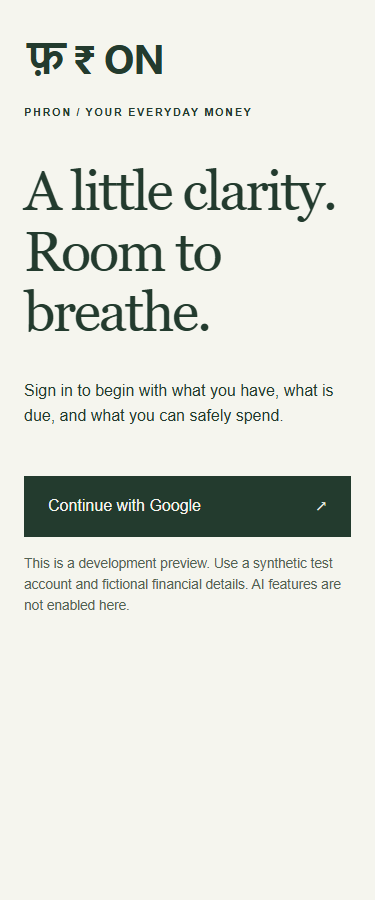
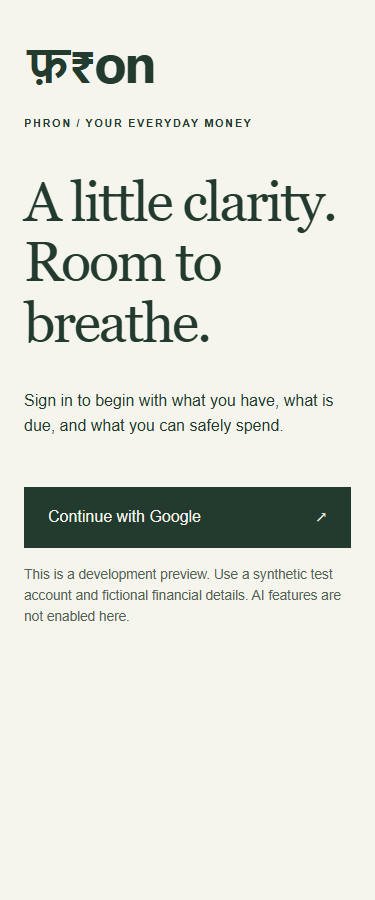
fix: tighten lowercase wordmark and refresh sign-in smoke assertions

Changed region(s): [[0.0587, 0.1867, 0.9093, 0.4978], [0.0587, 0.5289, 0.9387, 0.7156], [0.0587, 0.0311, 0.6747, 0.1556]]

diff --git a/tests/e2e/foundation.spec.ts b/tests/e2e/foundation.spec.ts
@@ -1,13 +1,15 @@
 import { expect, test } from "@playwright/test";
 
-test("public foundation loads without client errors or financial capture", async ({ page }) => {
+test("public sign-in entry loads without client errors or anonymous financial capture", async ({ page }) => {
   const errors: string[] = [];
   page.on("pageerror", (error) => errors.push(error.message));
   page.on("console", (message) => { if (message.type() === "error") errors.push(message.text()); });
   await page.goto("/");
   await expect(page).toHaveTitle("PHRON — Money, in perspective");
-  await expect(page.getByRole("heading", { level: 1 })).toHaveText("More clarity.Less money noise.");
-  await expect(page.getByText("Coming soon", { exact: true })).toBeVisible();
+  await expect(page.getByRole("heading", { level: 1 })).toHaveText("A little clarity.Room to breathe.");
+  await expect(page.getByRole("img", { name: "PHRON", exact: true })).toBeVisible();
+  await expect(page.getByRole("button", { name: "Continue with Google" })).toBeVisible();
+  await expect(page.locator('form[action="/api/auth/google"]')).toHaveAttribute("method", "post");
   await expect(page.getByRole("textbox")).toHaveCount(0);
   expect(errors).toEqual([]);
 });

diff --git a/src/components/brand/PhronLogo.tsx b/src/components/brand/PhronLogo.tsx
@@ -1,11 +1,11 @@
 /** Visual lockup only: the product's accessible and textual brand remains PHRON. */
 export function PhronLogo() {
   return <span role="img" aria-label="PHRON" className="phron-logo">
-    <svg viewBox="0 -8 152 64" width="152" height="64" aria-hidden="true" focusable="false" fill="currentColor">
+    <svg viewBox="0 -12 124 68" width="124" height="68" aria-hidden="true" focusable="false" fill="currentColor">
       <g fontFamily="'Nirmala UI', 'Noto Sans Devanagari', sans-serif" fontWeight="700">
         <text x="3" y="42" fontSize="42">फ़</text>
-        <text x="49" y="42" fontSize="40">₹</text>
-        <text x="80" y="42" fontSize="40" letterSpacing="-1">ON</text>
+        <text x="42" y="42" fontSize="40">₹</text>
+        <text x="64" y="42" fontSize="48" letterSpacing="-2">on</text>
       </g>
     </svg>
   </span>;

diff --git a/src/app/globals.css b/src/app/globals.css
@@ -14,7 +14,7 @@ footer { color: var(--quiet); font-size: .8rem; border-top: 1px solid #c5c8be; p
 
 /* Static cross-script wordmark; no font download, animation or product-copy replacement. */
 .phron-logo{display:inline-flex;vertical-align:middle;line-height:0;letter-spacing:normal;flex-shrink:0}
-.phron-logo svg{display:block;width:120px;height:auto;overflow:visible}
-.auth-brand .phron-logo svg{width:152px}
+.phron-logo svg{display:block;width:110px;height:auto;overflow:visible}
+.auth-brand .phron-logo svg{width:136px}
 .mobile-wordmark{display:none}
 @media(max-width:767px){.mobile-wordmark{display:block;margin-bottom:16px}}

diff --git a/docs/SPRINT_STATUS.md b/docs/SPRINT_STATUS.md
@@ -6,26 +6,26 @@ prd: 1.2.1-FROZEN
 repository_path: "W:/AI Product Sprint/Phron"
 branch: main
 commit: e50cf4317c8d4eb9e5336f6d2189e61f66c1a5fa # deployed application; final evidence commit separate
-working_tree_state: visual wordmark and evidence committed locally; not deployed; scratch untouched
+working_tree_state: lowercase wordmark refinement and evidence committed locally; not pushed/deployed; scratch untouched
 dirty_files: ["New Text Document.txt (untouched user work)"] # resolve current HEAD/status on resume
 active_chat: PHRON-00 acting Experience / PH30B single active writer
 phase: "7 (21-Day Behavioral Pilot eligible; NOT_STARTED)"
 current_step: PH-30B
-step_state: PH30B VISUAL_IMPLEMENTED; UNIT462_INTEGRATION152_BUILD_PASS; BRAND_BROWSER7_PASS; STALE_FOUNDATION_E2E_FAIL; PH31_NOT_STARTED
+step_state: PH30B COMPLETE; UNIT462_INTEGRATION152_BUILD_PASS; FOUNDATION_E2E2_PASS; BRAND_BROWSER7_PASS; READY_FOR_PUBLICATION; PH31_NOT_STARTED
 source_hash: d83a28f52a6356eb0b28d272edc72feaa39ecac6beaa1a608a5d8170e57ef994
 approved_amendments: [D01-v1, D02-v1, D03-v1, D03-v2, D04-v1, D05-v1, D06-v1, D07a-v1, D07b-v1, D07-v2, D08-v1, D09-v1, D10-v1, D11-v1, D16-v1, D17-v1, D18-v1, D19-v1, D21-v1, D21-lock-scope-v1, D27-v1, D05-extension-v1, D05-unpaid-carry-v1, D03-clearance-v1, D22-v1, D13-v1, D12-v1, D14-v1, D15-v1, D26-v1, G3-DF-01-v1, PH21-BUCKET-v1, PH21-GOAL-v1, PH21-OBLIGATION-v1, PH21-CHART-v1, D20-v1, G4-FLEX-DATE-01-v1, G4-CUSTOM-RECOVERY-01-v1, D23-v1, D24-v1, G4-GOAL-CALENDAR-01-v1, PH23-SC02-v1, D25-PRIMARY-v1, D25-FALLBACK-v1]
-completed_steps: [PH-01, PH-02, PH-04, PH-05, PH-06, PH-07, PH-08, PH-09, PH-10, PH-11, PH-12, PH-13, PH-14, PH-15, PH-16, PH-17, PH-18, PH-19, PH-20, PH-21, PH-22, PH-23, PH-24, PH-25, PH-26, PH-27, PH-28, PH-29, PH-30]
+completed_steps: [PH-01, PH-02, PH-04, PH-05, PH-06, PH-07, PH-08, PH-09, PH-10, PH-11, PH-12, PH-13, PH-14, PH-15, PH-16, PH-17, PH-18, PH-19, PH-20, PH-21, PH-22, PH-23, PH-24, PH-25, PH-26, PH-27, PH-28, PH-29, PH-30, PH-30B]
 passed_gates: [G0A, G1, V1, G2, V2, G3, G4, G5, V3, G6, G7]
 open_gates: [G0B]
 founder_reviews: {V1: PASSED, V2: ACCEPTED, V3: ACCEPTED}
 founder_review_revisions: {V2: "G2-V2-02 / 0f28e49e42b13ed07640855468ec943e44dda4eb", V3: "PHRON-V3-01 /36ca7380dfb2235d5556242f59c93da18c98bf04 — ACCEPTED 2026-10-11"}
 blocking_decisions: [] # scoped fixes verified; residual tooling/distributed-limit risks remain documented for release review
-latest_evidence: docs/evidence/PH30B/RESULT.md
+latest_evidence: docs/evidence/PH30B/refinement/RESULT.md
 deployment: {preview: READY_PROTECTED_SLICE_OPERATOR_JOURNEY_CONFIRMED, preview_url: "https://phron-hys7wn9wb-tts-1e31.vercel.app", preview_id: dpl_87okEBHQTbn6nZCgr4yrQzpzqdNn, production: READY_G6_PASSED, production_url: "https://phron-eight.vercel.app", production_id: dpl_5ugpr2a6QNk5ZhiydzSHBoCogPiX, production_commit: e50cf4317c8d4eb9e5336f6d2189e61f66c1a5fa, commit: 0f28e49e42b13ed07640855468ec943e44dda4eb}
 migration_state: ALL24_REMOTE_APPLIED; FIRST2_PRESERVED; NEXT22_AUTHORIZED_APPLIED_IN_PINNED_ORDER; CLEAN_REPLAY_PARITY100_PASS
 ownership_transfers: ["Tejas approved PH12-only sign-in/onboarding pages and form components/style, protected synthetic /home, empty PHRON_APP_ORIGIN name", "2026-10-08: Tejas directs all work in the single PHRON-00 Lead chat, including PH15 Engine/Platform/Experience/QA paths; no concurrent writers", "2026-10-10: Tejas approved PH21 typed contracts, server/API handlers, local-only migration and integration tests for goals, reconciliation, buckets and authenticated account deletion; no remote rollout"]
 requests_for_other_owners: [Lead safeWeekly snapshot-contract review]
-next_action: review PH30B-WORDMARK-01 and separately authorize stale foundation fixture correction/publication if desired
+next_action: operator authorizes push and deployment of verified PH30B-WORDMARK-02; do not begin PH31
 last_updated_ist: 2026-10-11
 ```
 

diff --git a/docs/evidence/PH30B/refinement/RESULT.md b/docs/evidence/PH30B/refinement/RESULT.md
@@ -1,0 +1,24 @@
+# PH30B-WORDMARK-02 — lowercase typography and sign-in test repair
+
+2026-10-11 IST; W:/AI Product Sprint/Phron; main; parent 1340b95cadd3544d9d1ae6732c7ebfb5ccdd1de3 plus this verified diff. Founder requested lowercase फ़₹on and explicitly authorized the stale Playwright fixture correction. No new founder acceptance is inferred.
+
+The static SVG now positions ₹ at x42 and on at x64, sharing baseline42 and weight700. Lowercase optical size48 and letter spacing−2 tighten the cross-script lockup. The viewBox is 0 −12 124 68; installed native fonts remain unchanged, with no downloads. The wrapper remains role=img, aria-label=PHRON. Metadata, product copy, routes, financial contracts and formulas are unchanged.
+
+The foundation test now checks the actual sign-in heading, accessible PHRON mark, Continue with Google button and POST auth form. Anonymous capture denial, title, client-error checks and exact health/no-store/write-rejection assertions remain intact.
+
+| Command | Executed result | Evidence |
+| --- | --- | --- |
+| npm test | PASS exit0: 462 unit + 152 integration | test.log |
+| npm run typecheck | PASS exit0 | typecheck.log |
+| npm run lint | PASS exit0 | lint.log |
+| npm run build, restricted Windows shell | FAIL exit1: environment EPERM creating .next/server/app/_not-found.segments/_not-found | build.log |
+| npm run build, host retry | PASS exit0 | build-host.log |
+| npx --no-install playwright test | PASS exit0: 2/2 default foundation tests | e2e.log |
+| node docs/evidence/PH30B/verify-logo.mjs --refinement | PASS exit0: 7/7 focused browser checks | browser.log; browser-results.json |
+| npm run verify:sources | PASS exit0: all five source hashes match | executed in current shell |
+
+The build failure is the known Windows filesystem issue; the successful standalone host build is recorded separately. No package installation was performed. Integration here means the existing mocked Jest suites, not a fresh remote database audit. The default Playwright project contains two tests; a complete 18-scenario financial journey rerun is NOT RUN for this visual-only change.
+
+Mobile 375px root preview was visually inspected: cohesive lowercase mark, visible nukta, shared baseline and no clipping. Updated preview is also at ../auth-root-375.png. Auth/root and isolated actual navigation component evidence covers 375px/1280px plus static reduced-motion behavior. No new physical-phone or authenticated database journey is claimed. OS font rendering can vary.
+
+PH30B-TEST-01 is resolved. Local commit is ready for publication review; no push, deployment, remote setting or provider operation was performed. Production remains e50cf43. New Text Document.txt remains untouched. PH31 has not started.

diff --git a/docs/DESIGN.md b/docs/DESIGN.md
@@ -142,3 +142,7 @@ One explicit founder action: “Tejas accepts V3 — PHRON-V3-01 at commit36ca73
 ## PH30B-WORDMARK-01 — visual brand direction implemented
 
 2026-10-11: Tejas explicitly requests फ़₹ON, inspired by synchronous cross-script typography. Component src/components/brand/PhronLogo.tsx uses static native SVG typography with optically sized shared-weight glyphs and PHRON accessible name. Installed fonts only, no third-party asset/download; same ink, baseline and existing visual language. Integrated navigation/mobile Home/auth/onboarding. Existing text/metadata/fixtures unchanged; no new V1/V2/V3 or founder review approval inferred. [Screenshots and verification](evidence/PH30B/RESULT.md).
+
+# PH30B-WORDMARK-02 — founder typography refinement
+
+2026-10-11 IST. Founder requests फ़₹on with cohesive spacing and lowercase Latin letters. Static SVG shares baseline/weight, reduces inter-glyph gaps and optically enlarges lowercase x-height. Accessible identity remains PHRON. 375px preview visually inspected and375/1280 browser bounds PASS. Native font fallback retained. Implemented and verified; no additional visual acceptance inferred. Evidence: evidence/PH30B/refinement/RESULT.md.

diff --git a/docs/handoffs/EXPERIENCE.md b/docs/handoffs/EXPERIENCE.md
@@ -1,3 +1,11 @@
+# PH30B-WORDMARK-02 / Experience — verified local handoff
+
+2026-10-11 IST; main; parent1340b95 plus this commit. Lowercase फ़₹on tightened and authorized obsolete foundation assertion corrected. 462unit/152integration, lint/types/host build, default Playwright2/2 and focused browser7/7 PASS; all5source hashes verified. Restricted Windows build EPERM retained separately. [Evidence](../evidence/PH30B/refinement/RESULT.md). Updated375px preview at ../evidence/PH30B/auth-root-375.png.
+
+Resolve exact final HEAD via git on resume. No push/deploy; production e50cf43 unchanged. Scratch untouched; PH31 NOT_STARTED. Next one action: operator authorizes publication of this verified revision.
+
+---
+
 # PH30B / Experience — 2026-10-11 IST
 
 Implemented static फ़₹ON/PhronLogo in brand, navigation/Home/mobile/auth/onboarding. Accessible identity stays PHRON; titles/metadata/routes/fixtures/financial logic unchanged. Parent ffb9751,main,W:/AI Product Sprint/Phron; resolve final local commit with git. Not pushed/deployed, live stays e50cf43.

diff --git a/docs/BUGS.md b/docs/BUGS.md
@@ -114,3 +114,7 @@ The earlier BUGS.md template stated no executed application tests/NOT_RUN. It pr
 ## PH30B-TEST-01 / P2 — OPEN (pre-existing test drift)
 
 2026-10-11. npm run test:e2e:1pass/1fail. foundation.spec.ts:9 still expects More clarity.Less money noise. and Coming soon, while the post-PH28 public root already serves A little clarity.Room to breathe. PHRON title assertion passes. Repro: build then default E2E. No logo-induced copy change; tests unchanged per explicit PH30B guardrail. Owner QA; separately update obsolete expectations to approved live landing with meaningful auth-entry checks, retaining PHRON title. [Evidence](evidence/PH30B/RESULT.md).
+
+# PH30B-TEST-01 — RESOLVED (2026-10-11 IST)
+
+Founder explicitly authorized updating the obsolete Coming-soon foundation assertion. It now verifies the rendered sign-in heading, PHRON accessible logo, Google button and POST form while retaining anonymous capture denial and all health/security checks. Default Playwright2/2 PASS, exit0. Evidence: docs/evidence/PH30B/refinement/RESULT.md.

diff --git a/docs/TEST_RESULTS.md b/docs/TEST_RESULTS.md
@@ -530,3 +530,7 @@ The firewall blocks sensitive financial and identity-bearing capture strings bef
 ## PH30B visual-only verification — 2026-10-11 IST
 
 Parent ffb9751 plus wordmark diff.462unit/152integration PASS, lint/typecheck/build/source5PASS; focused PHRON Playwright7PASS. Default E2E1PASS/1FAIL due unchanged obsolete Coming-soon heading fixture; no all-green E2E claim. No financial/DB/provider/remote run. [Exact commands, limits and screenshots](evidence/PH30B/RESULT.md).
+
+# PH30B-WORDMARK-02 — executed verification
+
+2026-10-11 IST; parent1340b95 plus scoped visual/test diff. 462unit+152mocked integration, lint/typecheck PASS; standalone host production build PASS after retained restricted Windows EPERM; default Playwright2/2 and focused responsive/logo7/7 PASS. All5source hashes PASS. Full authenticated financial journeys NOT RUN for visual-only revision. [Exact evidence](evidence/PH30B/refinement/RESULT.md). No push/deployment or founder visual self-approval.

diff --git a/docs/evidence/PH30B/RESULT.md b/docs/evidence/PH30B/RESULT.md
@@ -1,3 +1,9 @@
+# Latest: PH30B-WORDMARK-02 verified
+
+2026-10-11 IST. Lowercase फ़₹on tightened per founder feedback. Authorized stale sign-in assertion repaired; 462 unit +152 integration, lint/typecheck, host production build, 2/2 default Playwright and7/7 focused browser checks PASS. Initial restricted Windows EPERM retained. [Current report](refinement/RESULT.md); [updated375px preview](auth-root-375.png). Not pushed/deployed; historical uppercase report and original failure below.
+
+---
+
 # PH30B — फ़₹ON visual wordmark
 
 2026-10-11 IST, main, parent ffb975120a821f566a833aead0fbb1036e1fa344 plus this frontend-only diff. Revision PH30B-WORDMARK-01; founder direction implemented, no new founder visual acceptance inferred. No deployment/push, remote/auth/provider operation, finance change, tool install or fixture edit.

diff --git a/docs/MOTION.md b/docs/MOTION.md
@@ -123,3 +123,7 @@ Strengthened keyboard geometry requires entire target plus7px outline clearance 
 ## PH30B static wordmark
 
 The फ़₹ON mark never animates or interpolates. Normal/reduced-motion render identical final glyphs. No new click handler, tab stop, pending state or financial transition; existing drain/fill/focus behavior preserved. Accessible name PHRON; SVG hidden from accessibility tree. [Focused verification](evidence/PH30B/RESULT.md).
+
+# PH30B-WORDMARK-02
+
+2026-10-11 IST. Typography-only refinement; logo remains static and non-focusable inside the accessible PHRON wrapper. Required financial motion unchanged. Focused reduced-motion check PASS; evidence/PH30B/refinement/RESULT.md.
